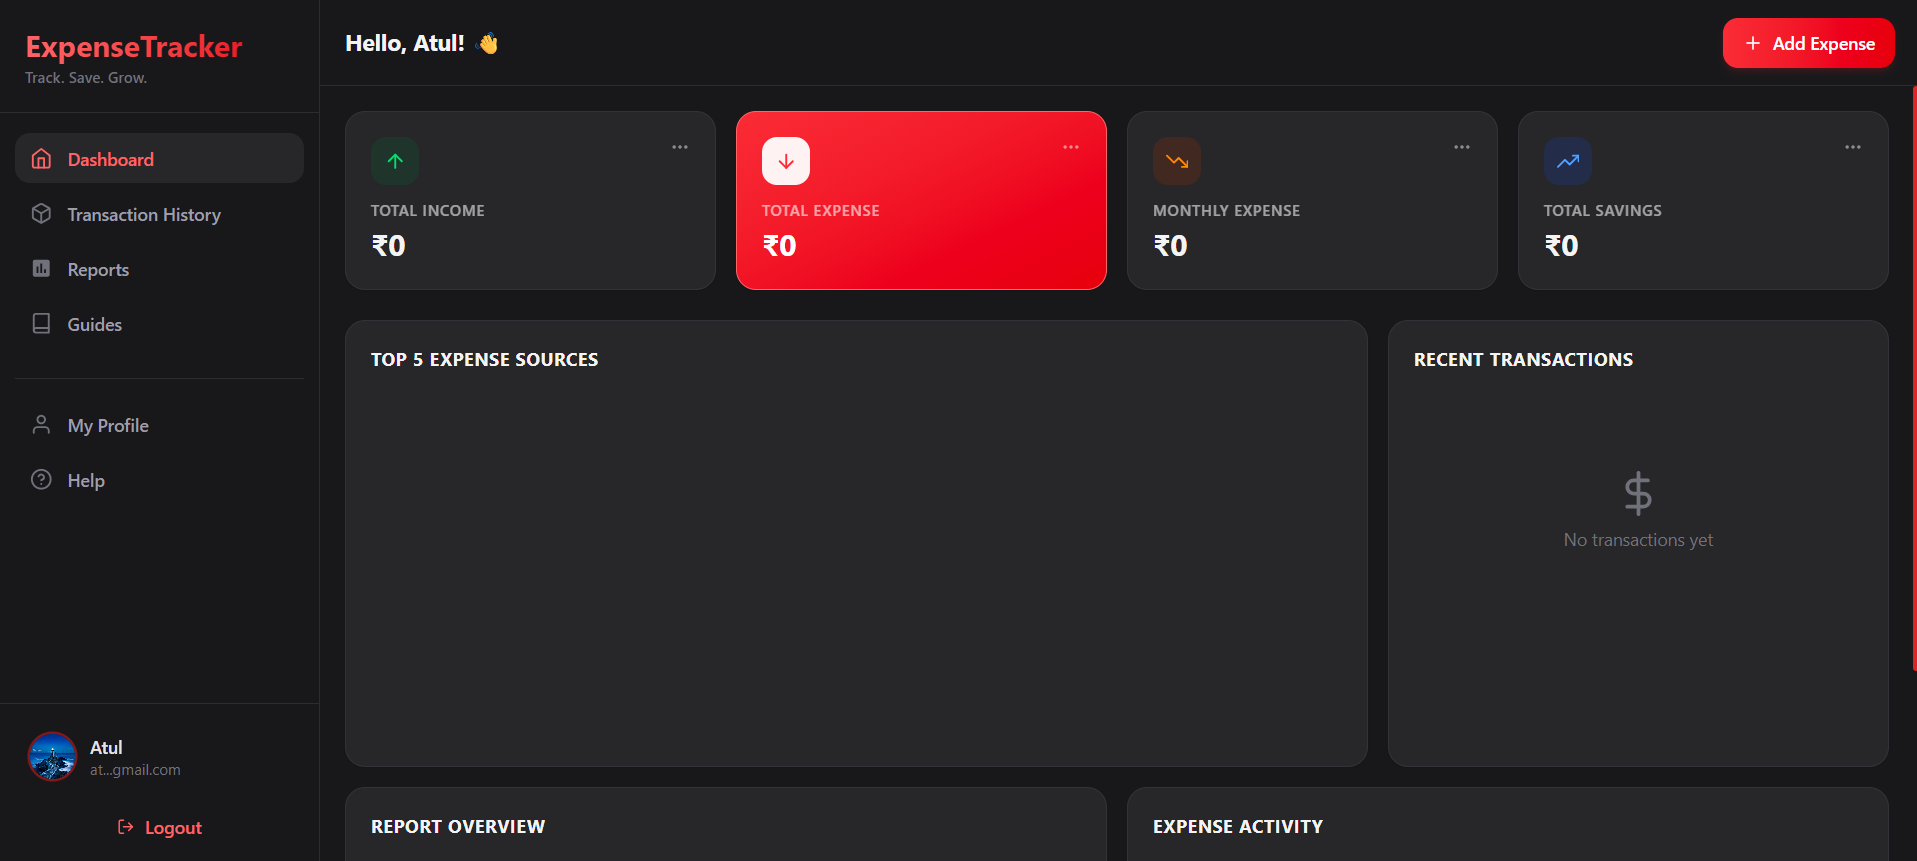
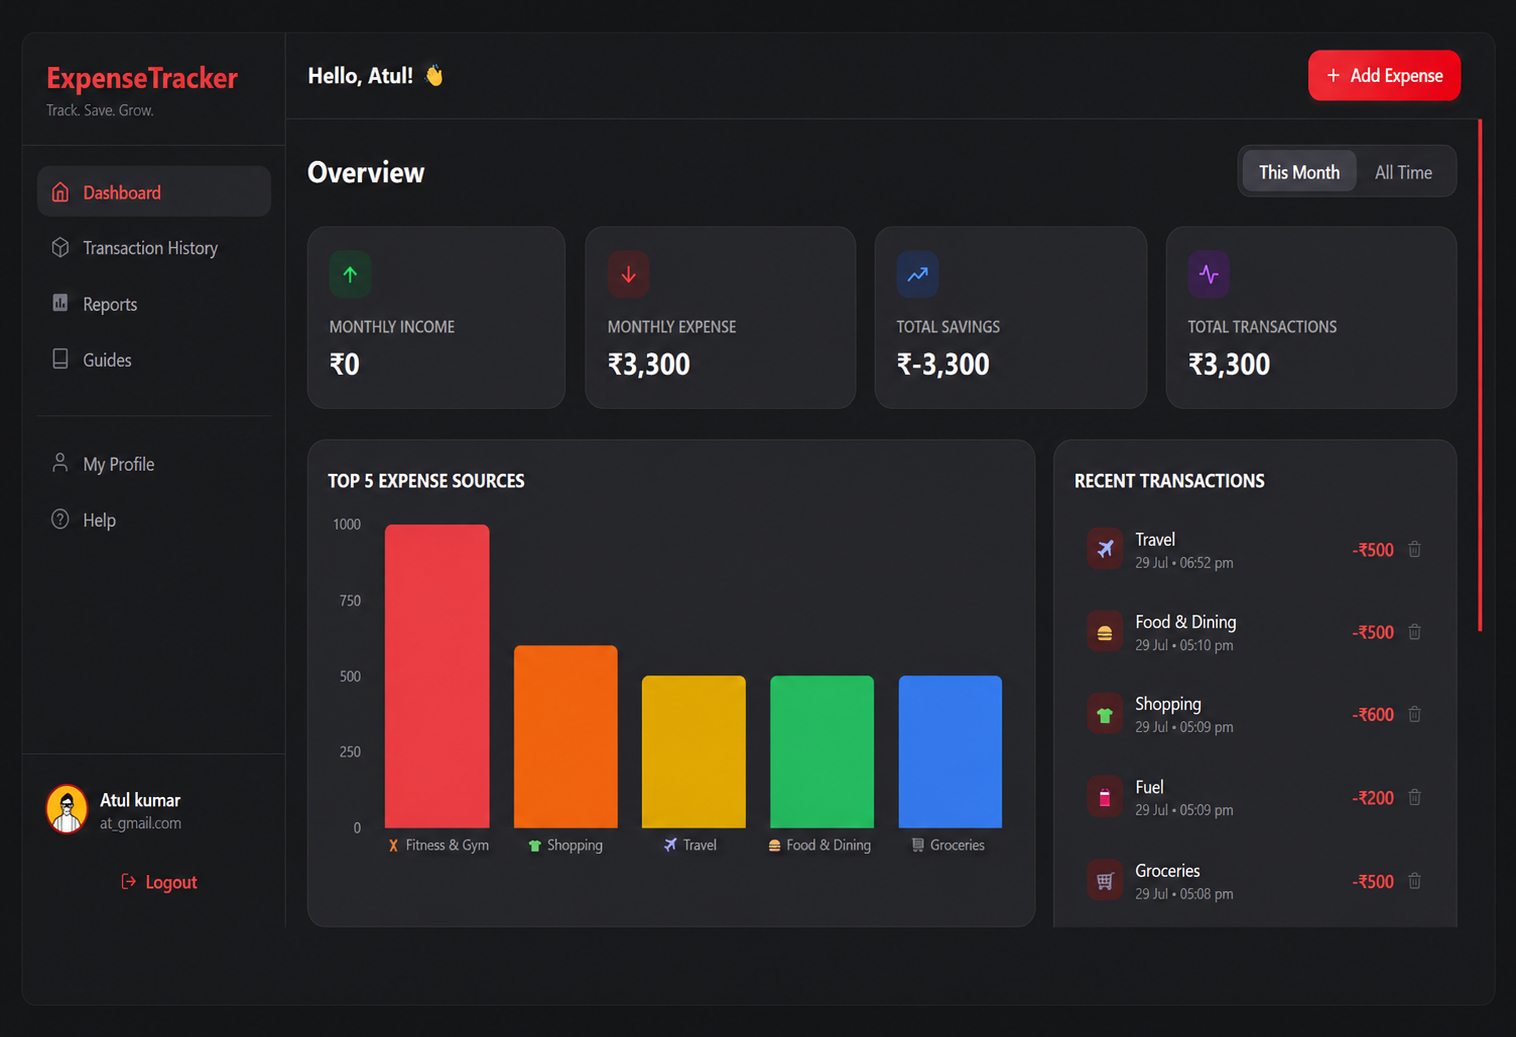
style: fix project card aspect ratios and update Expense Tracker thumbnail

diff --git a/src/index.css b/src/index.css
@@ -954,7 +954,7 @@ a {
 }
 
 .project-preview {
-  height: 220px;
+  aspect-ratio: 16 / 9;
   display: flex;
   align-items: center;
   justify-content: center;
